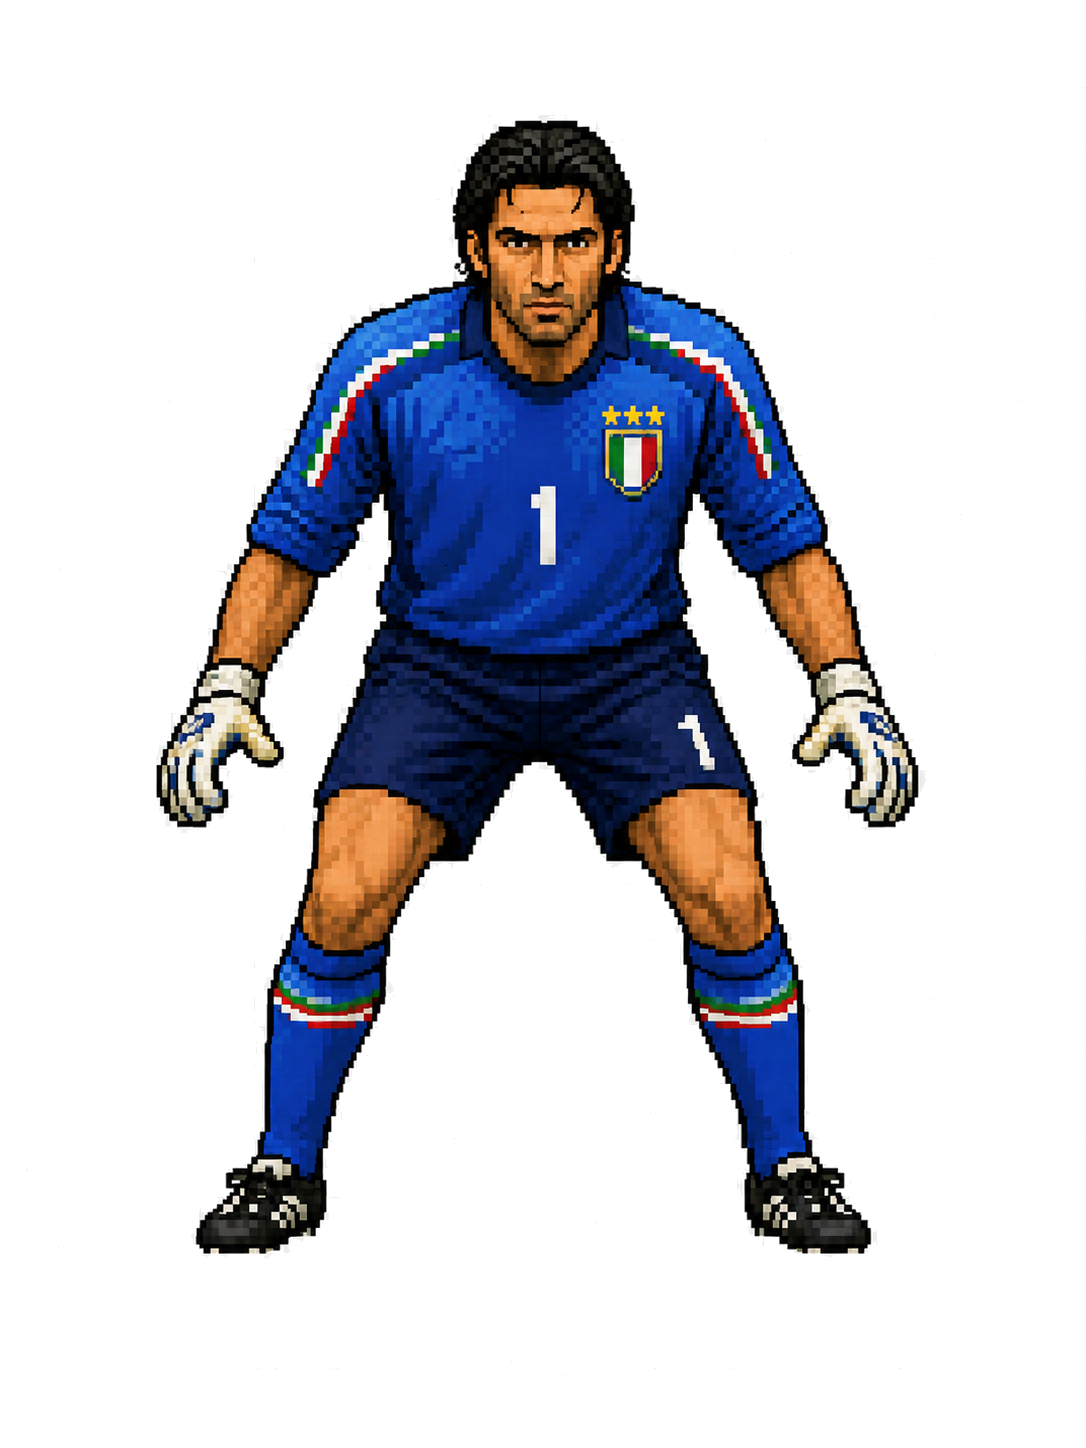
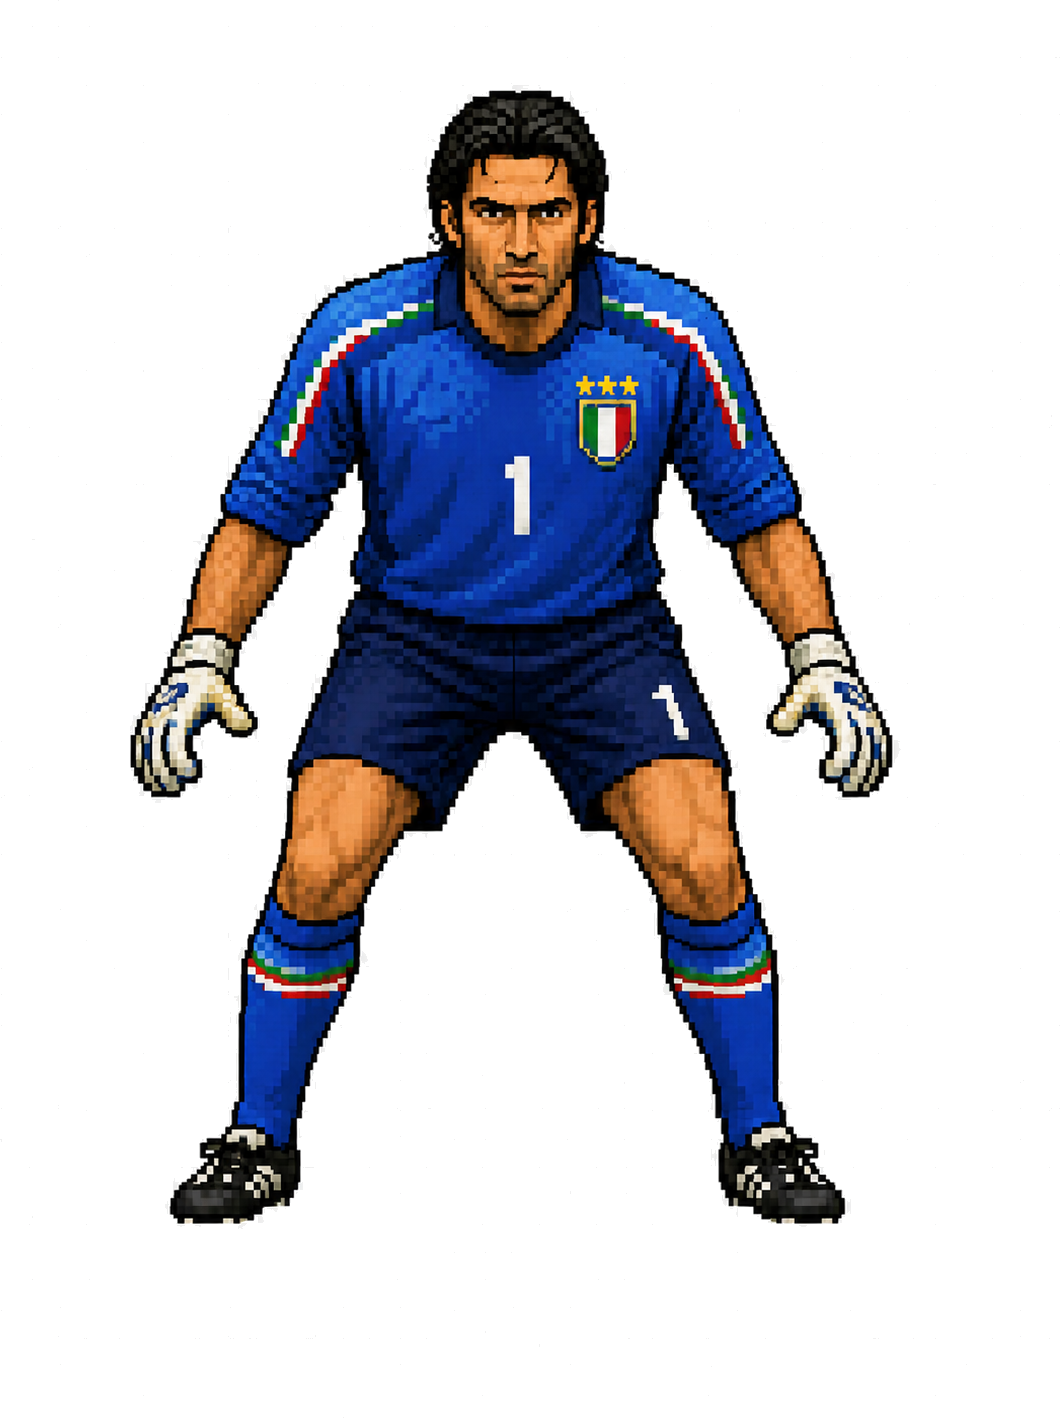
Mini game: stand keeper on the goal line, head just below the bar
- Trim transparent margins from buffon-ready.png so the image bounds are the
  keeper (feet at the bottom edge).
- Bottom-align the keeper inside a goal-mouth-height wrapper: feet sit on the
  line, head lands ~2% below the crossbar (image height 92% of the mouth).
- Diving now only shifts him sideways along the line (no vertical hop).

Changed region(s): [[0.1245, 0.0621, 0.8717, 0.8688]]

diff --git a/styles.css b/styles.css
@@ -1088,8 +1088,11 @@
 .mg-zone { border:0; background:transparent; cursor:pointer; transition:background .12s; padding:0; border-radius:2px; }
 .mg-zone:hover { background:rgba(244,209,106,0.3); }
 [data-accent="purple"] .mg-zone:hover { background:rgba(194,122,255,0.3); }
-.mg-keeper { position:absolute; left:50%; top:90%; transform:translate(-50%,-50%); line-height:0; z-index:3; pointer-events:none; transition:left .34s ease, top .34s ease; }
-.mg-gk { display:block; width:auto; height:clamp(87px,33vw,132px); object-fit:contain; filter:drop-shadow(0 2px 3px rgba(0,0,0,0.45)); }
+/* Keeper stands on the goal line: wrapper spans the goal mouth, image is bottom-
+   aligned so his feet sit on the line and (at 92% height) his head is just below
+   the crossbar. Diving only shifts him sideways along the line. */
+.mg-keeper { position:absolute; left:50%; top:0; bottom:0; transform:translateX(-50%); display:flex; align-items:flex-end; justify-content:center; z-index:3; pointer-events:none; transition:left .34s ease; }
+.mg-gk { display:block; width:auto; height:92%; object-fit:contain; filter:drop-shadow(0 2px 3px rgba(0,0,0,0.45)); }
 .mg-ball { position:absolute; left:50%; top:150%; transform:translate(-50%,-50%); font-size:1.5rem; line-height:1; z-index:2; pointer-events:none;
   transition:left .4s cubic-bezier(.35,1.3,.6,1), top .4s cubic-bezier(.35,1.3,.6,1); }
 .mg-spot { display:none; }

diff --git a/index.html b/index.html
@@ -5648,7 +5648,7 @@ function mgShoot(z){
   MG.busy=true;
   const kz=Math.floor(Math.random()*3); // keeper dives left / centre / right
   ball.style.left=MG_ZX[z]+'%'; ball.style.top='46%';
-  keeper.style.left=MG_ZX[kz]+'%'; keeper.style.top='82%';
+  keeper.style.left=MG_ZX[kz]+'%';
   const outcome = z===kz ? 'save' : 'goal';
   setTimeout(()=>{
     MG.shots++;
@@ -5661,7 +5661,7 @@ function mgShoot(z){
     }
     setTimeout(()=>{
       ball.style.left='50%'; ball.style.top='150%';
-      keeper.style.left='50%'; keeper.style.top='90%';
+      keeper.style.left='50%';
       if(msg){msg.textContent='Shoot left, centre or right 👆';msg.className='mg-msg';}
       MG.busy=false;
     },1000);
